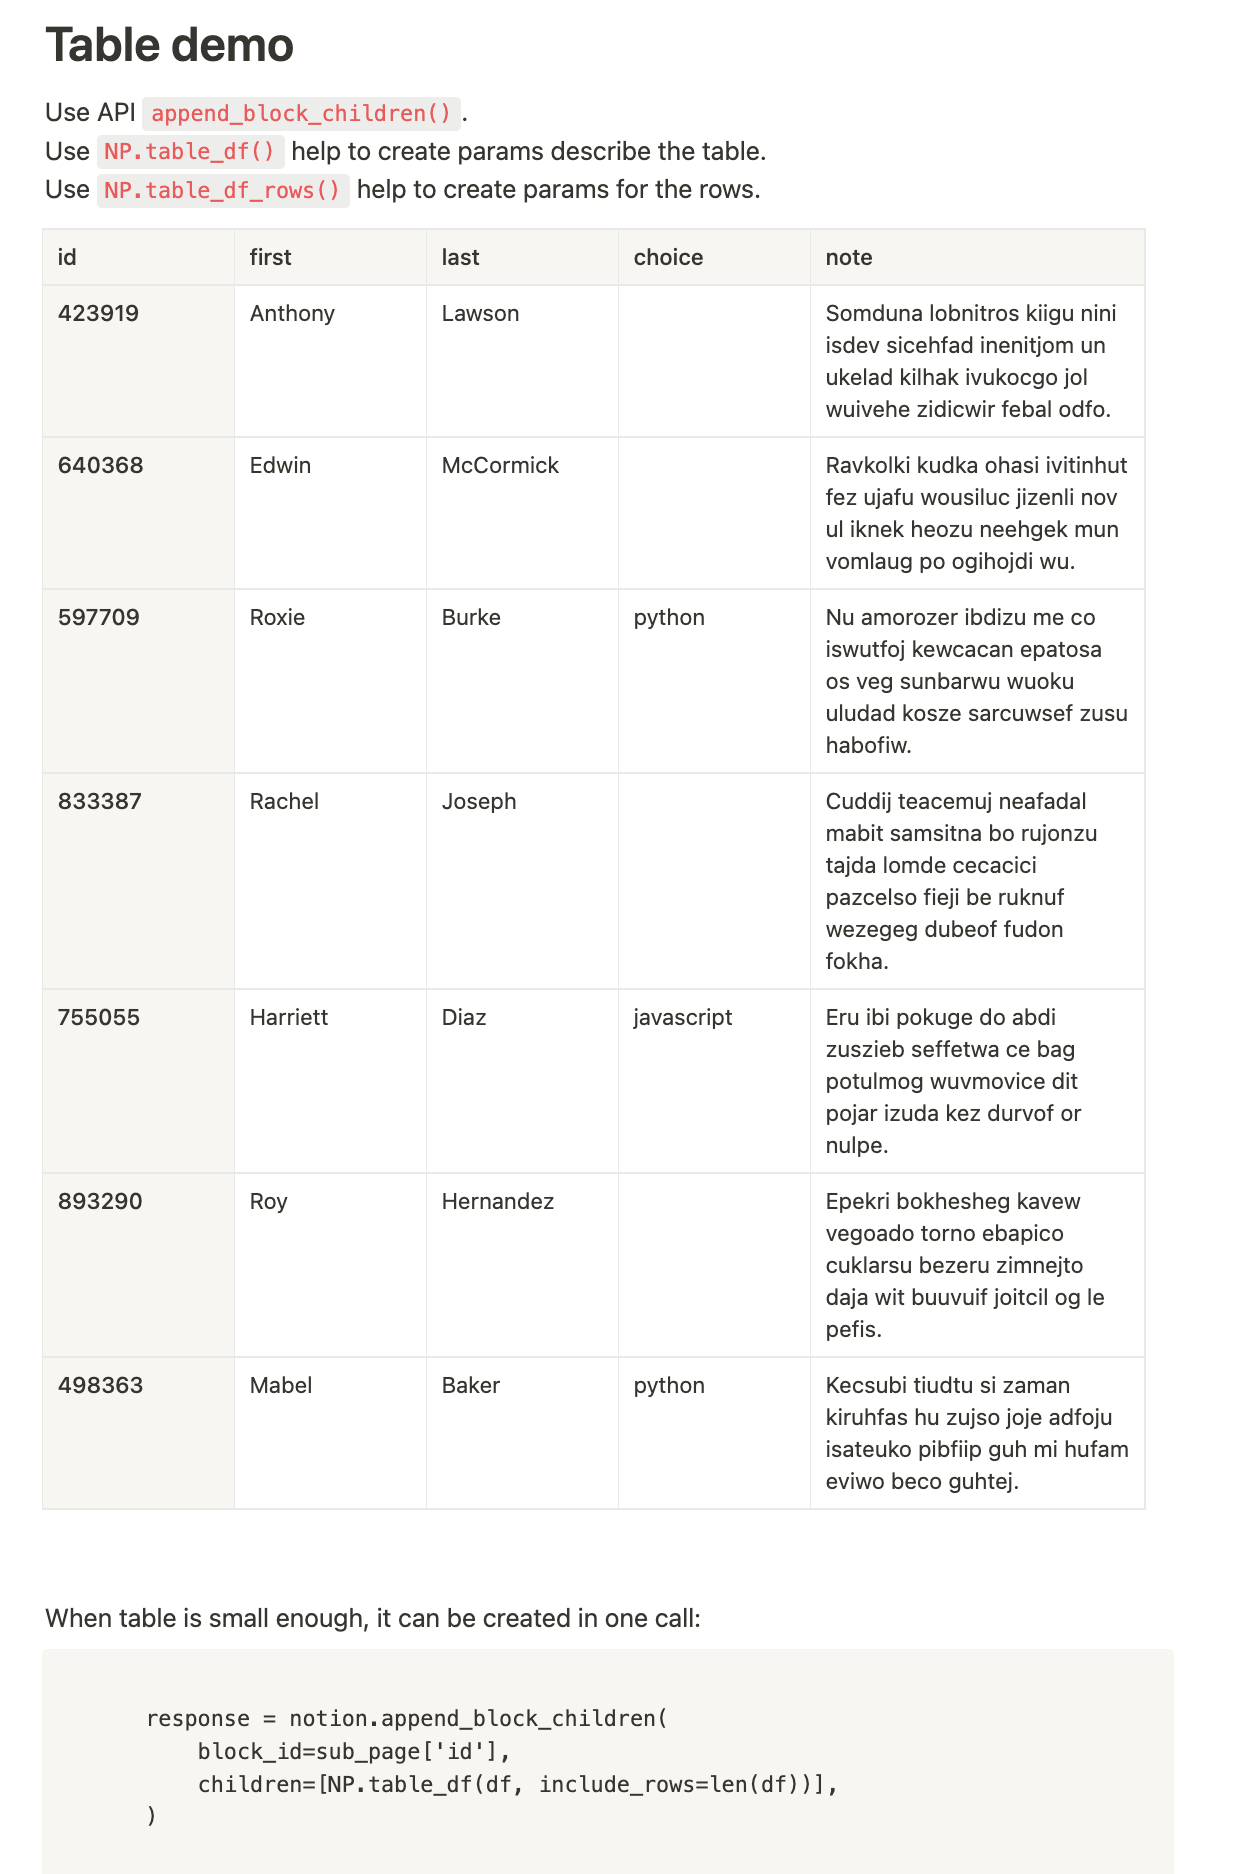
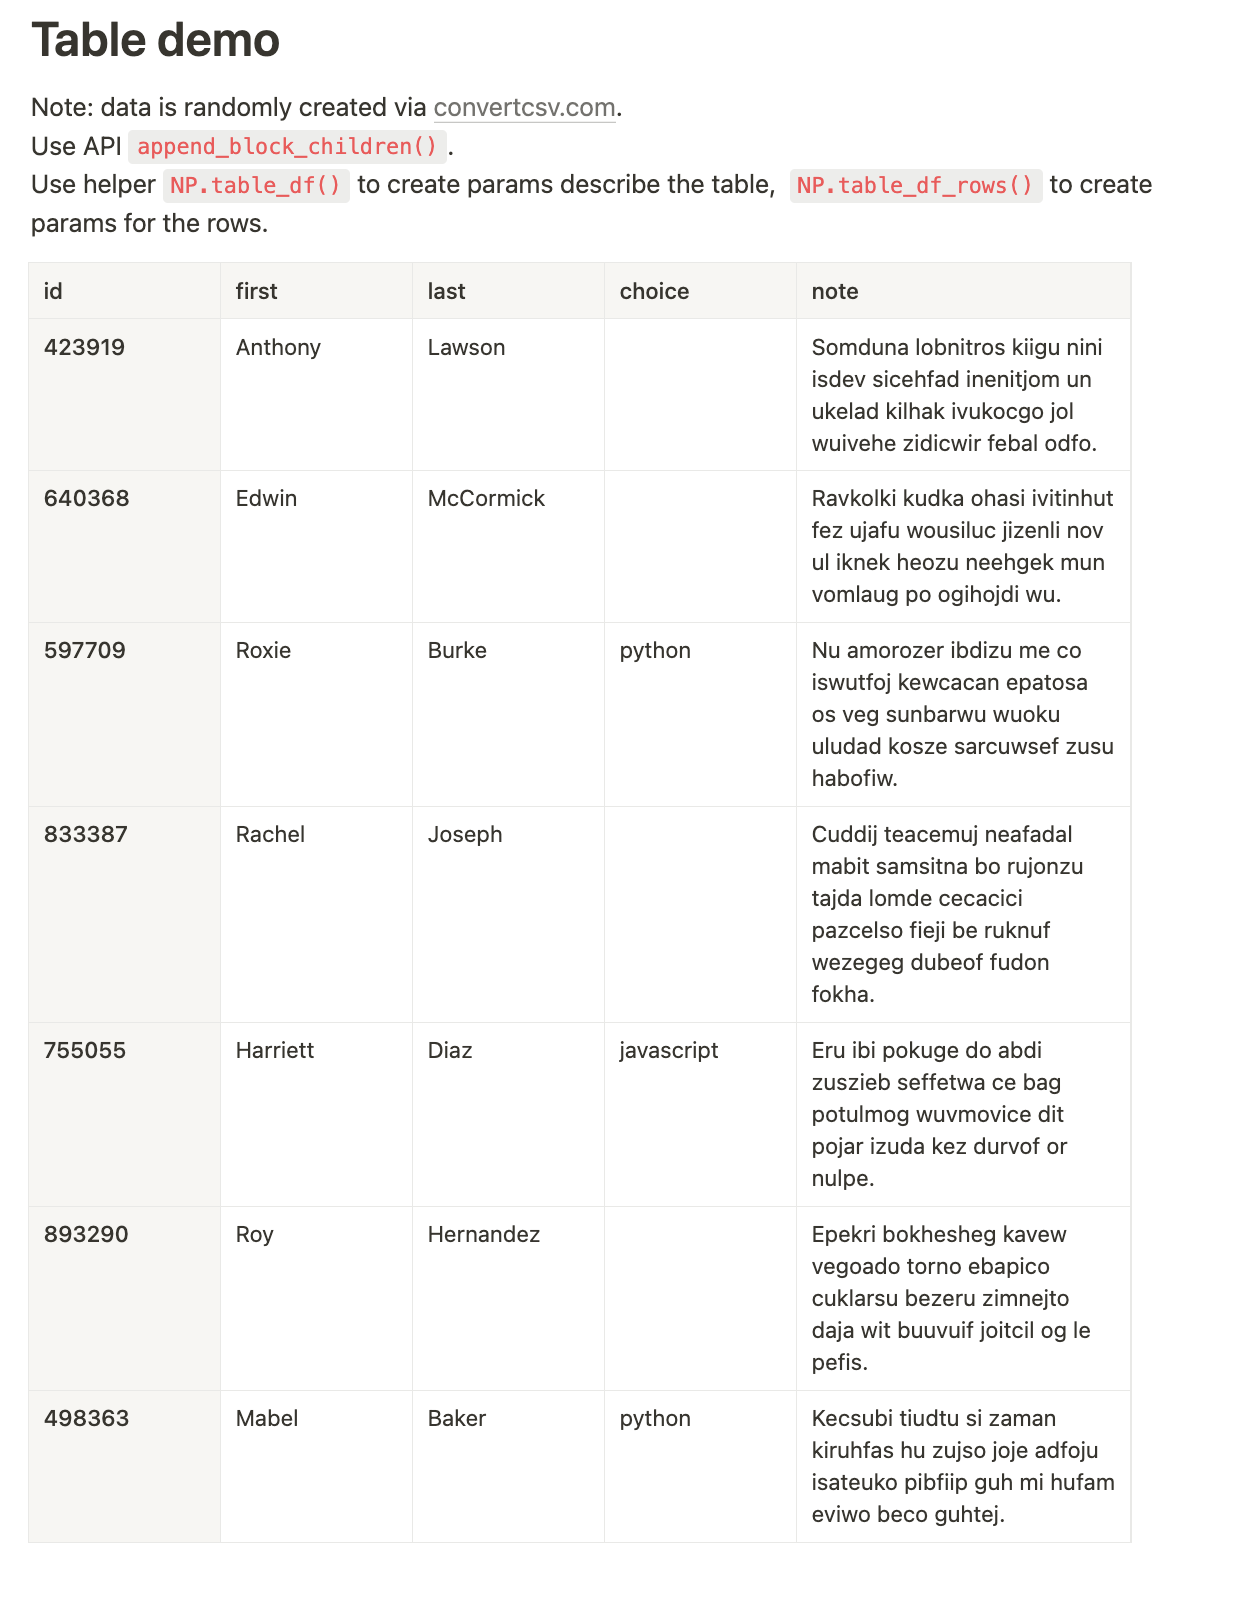
update readme and sample

diff --git a/samples/sample.py b/samples/sample.py
@@ -73,9 +73,9 @@ See more demos in [sample.py](https://raw.githubusercontent.com/zhaowb/notion-pa
 
     notion.append_block_children(sub_page['id'], **NP.append_markdown(
         """# Table demo
+Note: data is randomly created via [convertcsv.com](https://www.convertcsv.com/generate-test-data.htm).
 Use API `append_block_children()`.
-Use `NP.table_df()` help to create params describe the table.
-Use `NP.table_df_rows()` help to create params for the rows.
+Use helper `NP.table_df()` to create params describe the table,  `NP.table_df_rows()` to create params for the rows.
 """
     ))
     response = notion.append_block_children(
@@ -102,8 +102,8 @@ When table is small enough, it can be created in one call:
 
     notion.append_block_children(sub_page['id'], **NP.append_markdown(
         """# Database demo
-Use API `create_database()` create database.
-Use API `create_page(**NP.create_database_row)` to add rows.
+Note: data is randomly created via [convertcsv.com](https://www.convertcsv.com/generate-test-data.htm).
+Use API `create_database()` create database, `create_page(**NP.create_database_row)` to add rows.
 Use `NP.create_database()` and `NP.create_database_row()` help to create params.
 """
     ))
@@ -239,7 +239,7 @@ End of sample page
     ))
     # change title to indicate done
     notion.update_page(sub_page['id'], **NP.update_page(
-        title='notion_params sample page (done)',
+        title='notion_params sample page',
         emoji='😀',
     ))
 

diff --git a/README.md b/README.md
@@ -2,10 +2,13 @@
 This is a helper to build Notion API params, parse markdown text into Notion API blocks,
 include a simple client support all APIs version '2022-02-22'.
 
+Page can be created using markdown:
 ![](https://raw.githubusercontent.com/zhaowb/notion-params/main/screenshots/Demo-README.png)
 
+Table:
 ![](https://raw.githubusercontent.com/zhaowb/notion-params/main/screenshots/Demo-README-table.png)
 
+Database:
 ![](https://raw.githubusercontent.com/zhaowb/notion-params/main/screenshots/Demo-README-database.png)
 
 See more demos in [sample.py](https://raw.githubusercontent.com/zhaowb/notion-params/main/samples/sample.py): `python sample.py {page_id}` where page_id is a notion page your token has permission to write. This sample code will create a sub page to show all the demos.
